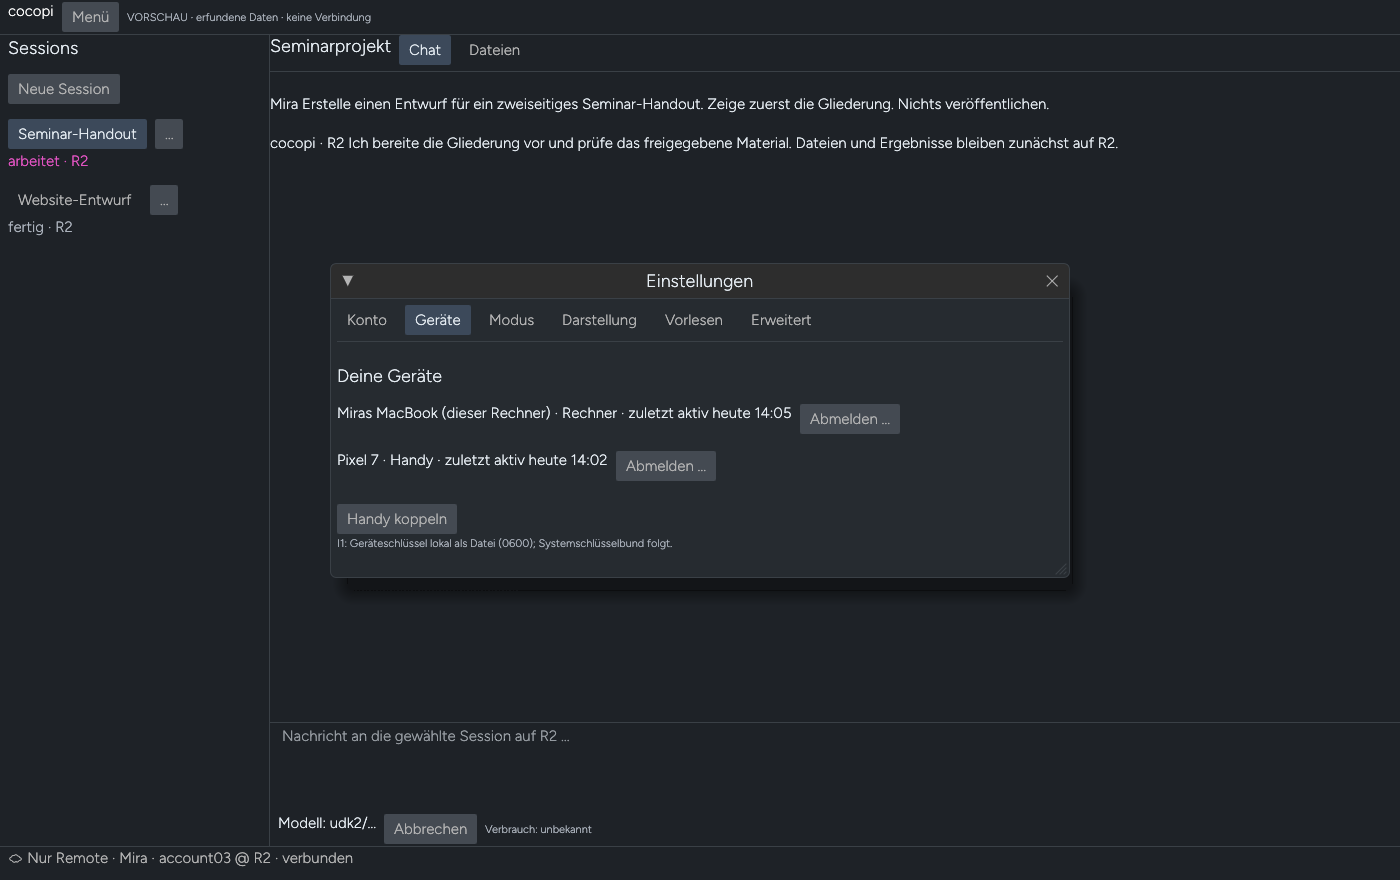
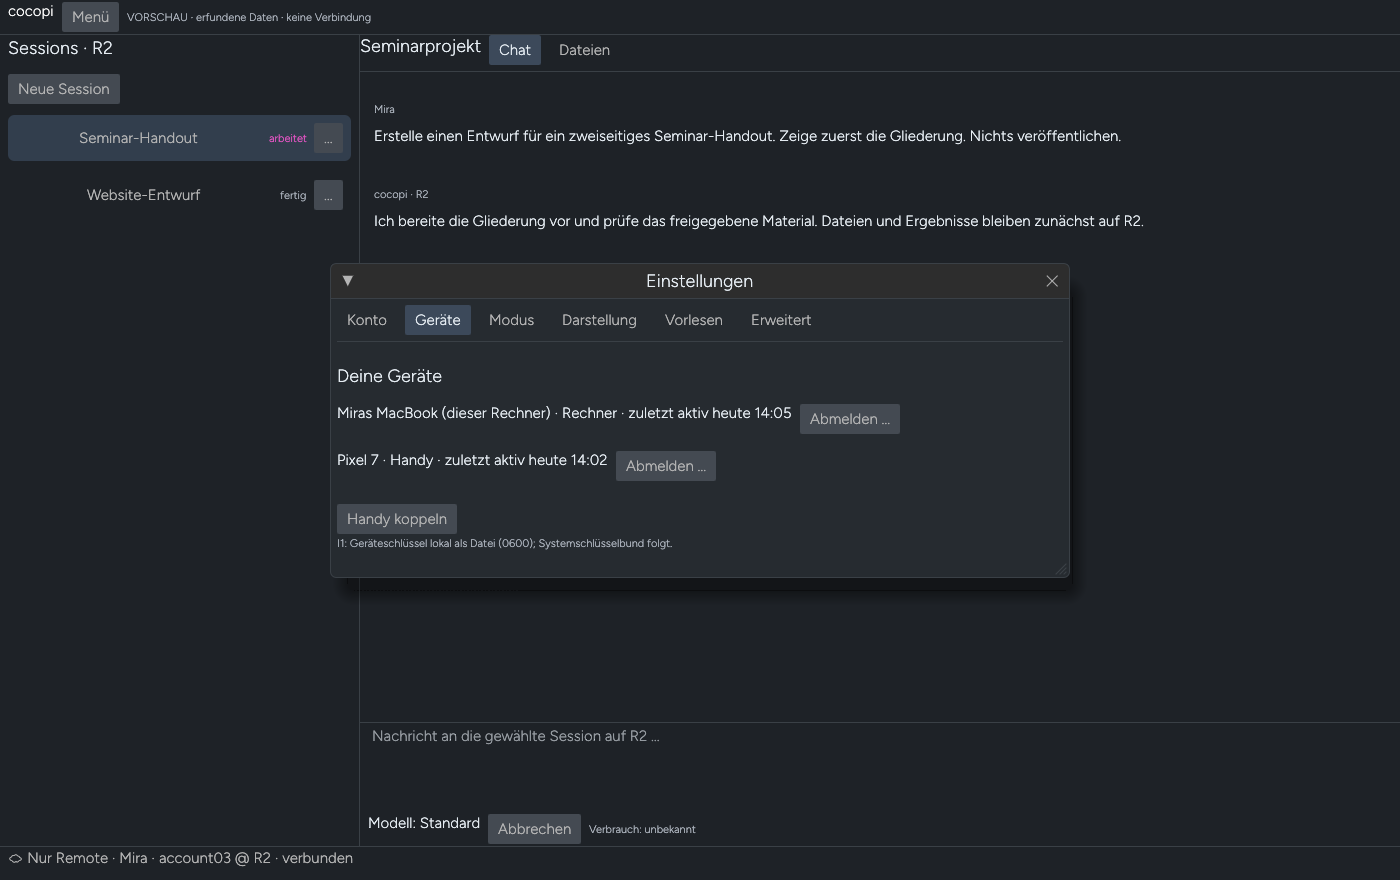
cocopi v3: I1-Fix-Berichte und neue Screenshots

diff --git a/coord/runs/I1-S3-fix-bericht.md b/coord/runs/I1-S3-fix-bericht.md
@@ -1,0 +1,79 @@
+# I1-S3-fix · Sicherheitsnachbesserungen
+
+Stand: 28.10.2026, Abschluss ca. 20:25 CET. Beginn laut Laufstatus 20:04:53 CET; deutlich innerhalb 100 Minuten.
+
+## Ergebnis und Übergabestände
+
+Pflichtpunkte H1–H3, Fehlercode-Erhalt/N5, M3, M5 und N2/N3 umgesetzt; zusätzlich M1 und die angeforderten M4-Härtungen. **Keine Pilot-/Deploymentfreigabe:** offene Reviewpunkte und Plattform-/Livegrenzen bleiben unten ausdrücklich stehen.
+
+| Repository / eigener Worktree | Branch | Ausgang | Ergebnis |
+|---|---|---|---|
+| `/home/medienhaus/Work/pi-lite-wt/s3` | `v3/s3` | `64e7154` | **`0f2716a`** |
+| `/home/medienhaus/Work/pi-hub-wt/s3` | `v3/s3` | `365cadc` | **`e2eabfa`** |
+
+Beide Worktrees nach den Commits sauber. Keine fremden Änderungen übernommen; keine Abhängigkeiten, Installationen, Netzwerk-/Systemkonfiguration oder produktiven Hubprozesse verändert. Kein Push, Merge, Reset oder Stash. Cargo ausschließlich offline/locked. Hub-Commits mit vorgegebener Identität. Keine Live-Modellprompts.
+
+## Finding → Commit → Nachweis
+
+| Finding | Umsetzung / Commit | Test / Ergebnis |
+|---|---|---|
+| **H1** Bestätigung per `geraeteart` umgehbar | Hub `84728e4`: jede e-Einlösung bei mindestens einem nicht widerrufenen Gerät bleibt zunächst pending, unabhängig von beantragter Geräteart. Mit Handy b-Bestätigung, andernfalls Zustimmung des vorhandenen Desktops. | `invite_as_phone_with_existing_phone_needs_confirmation`, `invite_with_existing_desktop_needs_approval`: kein neues Gerät vor Bestätigung; Hub-v1 grün. |
+| **H2** b-Code in SSE/Replay | Hub `84728e4`: SSE erhält nur explizit ausgewählte Anfrage-ID/Name. `bestaetigung` einschließlich Code/URL verbleibt ausschließlich in der Einlöse-HTTP-Antwort. | `confirm_code_never_in_sse_or_replay`: Live-Stream und Replay ohne Code/URL/Bestätigungsobjekt. |
+| **H3** verspätete Instanzereignisse / freie Kapazität vor Exit | Hub `84728e4`: Ereignisse nur bei `s.inst === inst`; `ruht`/`fehler` mit lebender Instanz zählt weiter offen; Wiederöffnen und Senden während Stopp gesperrt. Erst Exit entfernt Instanz. | `late_exit_after_rest_cannot_free_slot`, vorhandene Parallel-/Kapazitätstests: verzögerter Exit, Wiederöffnen, alte Ereignisse, dritte Session. |
+| **Fehlercodes + N5** | pi-lite `0e77243`, `0f2716a`: API bleibt `Result<Value, String>`; Protokollfehler beginnen mit `[code] `. Bekannte Codes ausschließlich mit lokalen Texten; unbekannte gültige Codes mit dokumentiertem Servertext-Fallback. | `error_codes_use_local_text_and_unknown_fallback`; echter lokaler HTTP-Rundlauf prüft `[verbraucht]` und `[nicht_angemeldet]`. |
+| **M3** kontextlose Signatur | Hub `091ce47`; pi-lite `0e77243`: exakter LF-Text `cocopi-v1-anmelden\n<hub_origin>\n<slot>\n<geraet_id>\n<challenge_id>\n<nonce>`, kein Schluss-LF. Ursprung aus bewusster Client-Konfiguration / `HUB_URL`, nicht aus Challenge. Challenge enthält Slot; Client vergleicht mit `hallo`. Schema, Protokoll, Beispiele aktualisiert. | `signature_for_hub_a_rejected_by_hub_b`, Rust `login_signature_context_and_canonical_origin`, `signature_matches_protocol_example`; deterministischer Ed25519-Vektor in Node und Rust identisch. |
+| **M5** hängender Start | Hub `091ce47`: `HUB_START_TIMEOUT_MS`, Standard 60000; positive Ganzzahl. Timer bis erfolgreichem `get_state`, danach `fehler` und `stop(true)`/SIGKILL. Erzwungenes Ruhen erlaubt. | `start_timeout_and_forced_rest_release_slot`: nicht antwortender Fake wird beendet; Kapazität erst nach Exit frei; zusätzlich erzwungenes Ruhen geprüft. |
+| **N2** SSE ohne Lesebudget | pi-lite `0e77243`: SSE `timeout_recv_body(45 s)`. | `http_agents_disable_proxy_and_bound_sse_reads` prüft Agent-Konfiguration; keine reale 45-s-Halboffen-Verbindung getestet. ureq-Gesamtbudget, nicht gleitender Idle-Timer, siehe Grenzen. |
+| **N3** Umgebungsproxy | pi-lite `0e77243`: `.proxy(None)` auf beiden Agenten. | Derselbe Konfigurationstest prüft Proxy `None` für normale Requests und SSE. Kein echter Proxyserver betrieben. |
+| **M1** lesendes `hallo`, veraltete Sperre | Hub `e2eabfa`: `inspect` statt Schreibtransaktion auf Lesepfaden. Exklusive Sperre enthält PID/Zeitstempel, drei kurze Wiederholungen bei belegter Sperre; tote PID → `register_veraltet`, laufende/beschädigte Sperre → `register_belegt`. Keine automatische Löschung fremder Sperre. | `hallo_does_not_write_registry` prüft Nichterstellung sowie stabile Inode/mtime; `stale_lock_recovered_or_clear_error` prüft tote und lebende PID sowie Lesen trotz Sperre. |
+| **M4** State-Dateien | Hub `e2eabfa`: privater Eigentümer/Modus, `lstat`, Symlinkablehnung, `O_NOFOLLOW` beim Lesen und Prüfung des offenen Deskriptors. Geräte-/Sessionregister mit exklusivem Zufalls-Tempnamen, Sync/Rename/Verzeichnis-Sync. Sessionpfade beim Wiederöffnen unter `PI_SESSIONS_DIR`; Alt-Registry wird im Slotbetrieb nicht zusätzlich persistiert. | `state_dir_world_writable_refused`, `registry_symlink_refused`, `state_dir_symlink_and_public_registry_refused`, `session_registry_symlink_and_outside_path_refused`. Fremde UID nicht praktisch erzeugt; Prüfung im Code vorhanden. |
+
+## Ausgeführte Prüfungen
+
+- `cargo test --offline --locked --manifest-path copi/Cargo.toml -p pi-backend -- --nocapture`: **96 Unit-Tests bestanden**, `tests/hub.rs` **1 bestanden**, `tests/ssh.rs` **3 als bestanden gemeldet, 2 Live-Tests ignoriert**, Doc-Tests 0. **Einschränkung:** einer der drei SSH-Tests meldet selbst `node/socat fehlt – übersprungen`; kein echter SSH-Tunnel-Nachweis. Der v1-Node-Hub-Clienttest lief wirklich und wurde nicht übersprungen.
+- Für den abschließenden Cargo-Lauf beide Verweise explizit auf den eigenen Hub gesetzt: `COCOPI_TEST_HUB_DIR=/home/medienhaus/Work/pi-hub-wt/s3` **und** `PI_HUB_DIR=/home/medienhaus/Work/pi-hub-wt/s3` (Alt-Integration verwendet letzteren). Target `/home/medienhaus/Work/pi-lite-wt/target-s3`, Jobs 3.
+- `cargo clippy --offline --locked --manifest-path copi/Cargo.toml -p pi-backend -- -D warnings`: **EXIT 0**.
+- Hub `node test/v1.mjs`: **43 Prüfungen bestanden**.
+- Hub `node test/smoke.mjs`: **alle Tests bestanden** (Mock/Fake, keine Modelle).
+- `node --check` für `server.mjs`, beide v1-Module und `test/v1.mjs`: erfolgreich.
+- Python `jsonschema.Draft202012Validator`: Schema gültig und **23 JSON-Beispiele gültig**; keine Pakete installiert.
+- `git diff --check` beider Worktrees: erfolgreich. Nur `hub_v1.rs` gezielt formatiert, keine Workspace-Formatierungsänderung.
+
+Logs (flüchtig): `/tmp/I1-S3-fix-cargo-final.log`, `/tmp/I1-S3-fix-clippy-final.log`, `/tmp/I1-S3-fix-hub.log`, `/tmp/I1-S3-fix-smoke.log`, `/tmp/I1-S3-fix-schema.log`. Der im Cargo-Log sichtbare simulierte Panic gehört zum erfolgreichen Catch-/Restoration-Test, nicht zu einem fehlgeschlagenen Test.
+
+## Schnittstelle / Anfragen an andere Rollen
+
+### S2 Desktop
+
+1. Fehleradapter kann die vereinbarten Präfixe weiterhin unverändert auswerten: `[abgelaufen]`, `[verbraucht]`, `[unbekannt]`, `[zu_viele]`, `[zu_viele_offen]`, `[nicht_angemeldet]` usw. Kein öffentlicher Rückgabetyp geändert. Neu: `register_belegt`, `register_veraltet` (503); lokal erklären, keine automatische gewaltsame Entsperrung.
+2. Login macht vor Challenge einen zusätzlichen `hallo`-Request und verlangt den Slot in der Challenge. Gegen alte Server ohne Kontextsignatur ist dieser Stand absichtlich nicht kompatibel; Hub und Client gemeinsam integrieren.
+3. SSE läuft bei ureq nach insgesamt 45 s aus, auch mit Pulsen. Nach Timeout mit letzter Ereignis-ID neu verbinden, Replay deduplizieren; bei `neu_abgleichen` Snapshot ersetzen. **Keine Prompts automatisch wiederholen.** Reconnect/Fehleranzeige in der tatsächlichen Desktop-Worker-Schleife abnehmen.
+4. Vorhandene Desktopzustimmung auch für weitere e-Einladungen ohne Handy anbieten. Bei vorhandenem Handy b-Code ausschließlich aus der konkreten HTTP-Antwort des einlösenden Desktops anzeigen, niemals aus SSE ableiten.
+5. Review N4 (lokaler Fallback-Eintrag) und `mode::init()` vor Backendaufbau bleiben S2-Auftrag; nicht in S3-Dateien geändert. Lokale Speichernamen möglichst aus (Ursprung, Slot) ableiten; diese API bleibt zunächst kompatibel.
+
+### S5 / Mobil / Protokollabnahme
+
+Exakte neue Signaturbytes übernehmen, Challenge-Slot validieren; deterministischen Vektor unter `shared/protocol/v1/examples/anmelden_{challenge,req}.json` nutzen. Keine Nonce-only-Signaturen mehr. Das Handy muss b-Code bewusst über den Einlöseweg erhalten (QR/Benutzereingabe), nicht aus SSE. Native und mobile Clients gegen denselben neuen Hubstand testen.
+
+### K / Betrieb / erneuter Review
+
+- Commits nur gezielt integrieren; kein Merge durch S3 erfolgt. Pflichtpunkte mit unabhängigem Reviewer erneut prüfen.
+- Bei äußerem TLS/Reverseproxy **`HUB_URL` explizit auf den äußeren Ursprung setzen**; Default passt nur zum tatsächlichen lokalen Listener. Kein Vertrauen in unkonfigurierte Forwarded-Header ergänzt.
+- Vorhandene State-Verzeichnisse/-Dateien müssen dem Dienstkonto gehören und privat sein; Fix chmodt fremde/öffentliche Bestände nicht still passend. Alte leere Crash-Locks liefern klaren Sperrfehler. Veraltete Sperren nur nach Kontrolle und gestoppten Schreibern manuell entfernen; PID-Wiederverwendung kann einen alten Lock wie einen belegten aussehen lassen.
+
+## Nachgewiesene und offene Grenzen
+
+**Nachgewiesen:** lokale Linux-Tests mit Node-Mock/Fake einschließlich realem HTTP/SSE, tatsächlichem Fake-Kindprozess, verzögerten Exit-Ereignissen, Code-Geheimhaltung in Live-/Replay-Streams, Schema/Signaturvektor und Server-A/B-Abweisung. Keine Aussage über produktive Inbetriebnahme.
+
+**Weiter offen / nicht überbehaupten:**
+
+- Kein echtes Modell, kein produktiver Hubneustart, kein WAN/Tailscale-/TLS-/Reverseproxy-/Handytest, keine Mac-/Windows-Builds oder Keychain/Windows-ACL-Abnahme.
+- 45-s-SSE ist ein **Gesamtbodybudget** von ureq 3.4.2, kein durch Pulse verlängerter Idle-Timeout. Konfiguration und kurzer SSE-Rundlauf geprüft, tatsächlicher 45-s-Ablauf und UI-Reconnect hier nicht live getestet.
+- M4 prüft State-Endverzeichnis und Registerdateien; keine vollständige `openat`-/dirfd-basierte Absicherung sämtlicher Vorfahren und kein Schutz gegen einen bereits kompromittierten gleichen Unixbenutzer oder einen austauschbaren übergeordneten Pfad. Produktive State-Wurzel weiterhin unter vertrauenswürdigem privaten Home halten. Gezielter Fremd-UID-Test nicht ausgeführt.
+- Starttimeout/erzwungenes Ruhen sendet SIGKILL an den verwalteten Prozess, **keine bewiesene Prozessbaum-/cgroup-Terminierung**. Tatsächlicher asynchroner Exit einer produktiven pi-Instanz, geerbte Tool-Kinder und Crash-Waisen bleiben separat abzunehmen.
+- M1 bietet sichere Fehlermeldung statt automatischer Stale-Lock-Reparatur. Unlesbare/alte leere Sperren können blockieren, aber nicht mehr anonym als generischer interner Fehler.
+- Nicht Teil dieses Fixstands: M2 Proxy-/Absenderdrosselung, N1 SSE-/Tokenlimits je Gerät, N4/N6 Desktop/Mode-Themen, N7 CLI-Widerruf und Registerbereinigung sowie verwaiste Prozesse. Unbekannte Fehlercodes dürfen gemäß Auftrag noch Servertext zeigen; nur bekannte Codes sind lokalisiert.
+- Kontextsignatur schützt bei Schlüsselwiederverwendung die Hub-Ursprungsbindung; automatische getrennte Schlüsselablage je Hub/Slot und persistente UI-Slotbindung sind noch nicht eingeführt. Slot wird im aktuellen Client aus `hallo` genommen und gegen Challenge geprüft.
+- Persistenz bleibt Metadaten/Sessionpfad, kein RAM-Resume; SSE-Ring begrenzt und flüchtig, keine lückenlose Historien- oder Exactly-once-Garantie.
+
+Finale Übergabe: **FIX fertig 0f2716a e2eabfa**.

diff --git a/coord/runs/I1-S2-fix-bericht.md b/coord/runs/I1-S2-fix-bericht.md
@@ -1,0 +1,91 @@
+# I1-S2-fix · Desktop-Nachbesserung
+
+Stand: 28.10.2026, **abgeschlossen, HEAD `ed78a2b`** (ca. 20:29 CET,
+Beginn 20:04:53; innerhalb 90 Minuten).
+Worktree `/home/medienhaus/Work/pi-lite-wt/s2`, Branch `v3/s2`, sauber.
+Ausgang `9c8857c`, eigener Checkpoint `dbc6267`, autorisierter S3-Merge
+`9234ee8` (übernimmt `0f2716a`), HTTP-/Dialognachweis `ed78a2b`.
+
+## Erledigt
+
+- `main.rs`: gespeicherten Modus vor App-/Backend-Konstruktion initialisieren,
+  einschließlich `--sync-states`; Demo/Screenshots lesen keinen echten Modus.
+  Reihenfolgetest mit injiziertem Initialisierer ohne Konfigurationszugriff.
+- `net.rs`: fehlerhaftes `backends.json` fällt durch `backends::parse("[]")`
+  zurück; kein ungefilterter lokaler Eintrag. Regressionstest mit beschädigtem
+  JSON im Temp-Verzeichnis und Vergleich mit zentralem Parser.
+- `desktop.rs`: unabhängige Dialogaktionen in lesbaren Blöcken; ungenutzte
+  Varianten/Felder entfernt. Pairing-Abbrechen per simuliertem Klick sowohl bei
+  gültigem als auch bei abgelaufenem Code getestet. Einstellungen werden vor dem
+  Pairing-QR geschlossen.
+- Sprecher als eigene Daten und dezente Zeile; 14 px Innenabstand und Abstand
+  zum Markdowntext. Sessiontitel/Zustand/Ellipsis auf einer Zeile, neutrale
+  durchgehende Auswahl. Statt `udk2/…`: „Modell: Standard“.
+- Ausschließlich dateibezogenes rustfmt für `desktop.rs` und `desktop/hub.rs`.
+- Acht Szenen in `coord/shots/I1/` erneuert (1400×880), tatsächlich angesehen:
+  `v3-start`, `v3-start-fehler`, `v3-main-remote`, `v3-modus`,
+  `v3-hybrid-dialog`, `v3-geraete`, `v3-koppeln-qr`, `v3-grenze`.
+  Zusätzlich Kontaktbogen `v3-fix-kontaktbogen.png`.
+
+## Finale Tests / Nachweise nach S3-Merge
+
+Mit `--offline --locked`, `CARGO_BUILD_JOBS=3` und
+`CARGO_TARGET_DIR=/home/medienhaus/Work/pi-lite-wt/target-s2`:
+
+| Prüfung | Ergebnis | Log |
+|---|---|---|
+| cocopi-Binarytests vollständig, einschließlich echter HTTP-/Node-Adaptertests | **125 ok, 2 ignoriert, 0 gefiltert** | `/tmp/I1-S2-fix-cocopi-final.log` |
+| copi-Binarytests | **102 ok, 2 ignoriert** | `/tmp/I1-S2-fix-copi-final.log` |
+| Debug-Build cocopi und acht Screenshots nach Merge | ok | `/tmp/I1-S2-fix-build-final.log` |
+| Clippy cocopi einschließlich Tests | Exit 0, vorhandene Warnungen | `/tmp/I1-S2-fix-clippy-final.jsonl` |
+| Clippy-Baseline `eb534bb`, aus `git archive` in Temp-Verzeichnis | **keine neuen S2-Warnungsarten** | `/tmp/I1-S2-fix-baseline-clippy-tests.jsonl` |
+| dateibezogenes `rustfmt --edition 2021 --check` und `git diff --check` | ok | abschließender Toollauf |
+
+Clippy-Differenz über Datei/Code/Meldung verglichen: `desktop.rs`,
+`desktop/hub.rs`, `main.rs` ohne Warnungen; die Warnung `if_same_then_else` in
+`net.rs` ist bereits in `eb534bb` vorhanden. Beim Test-Clippy ist auch
+`items_after_test_module` in `main.rs` schon in der Baseline vorhanden (neue
+Funktionen ergänzen nur ihre sekundären Spans). Vergleich dedupliziert nach
+Datei/Code/Meldung: keine neue Warnungsart. Alte Warnungen wurden nicht als durch
+diesen Auftrag behoben ausgegeben.
+
+## S3-Integration / echte HTTP-Regression
+
+Nach überprüftem Heartbeat **„FIX fertig 0f2716a e2eabfa“** wurde ausschließlich
+der erlaubte Merge `git merge --no-edit v3/s3` ausgeführt. Die API blieb
+`Result<…, String>` statt eines neuen öffentlichen Fehlertyps; `[code]`-Präfixe
+sind nun der maschinenlesbare Vertrag. Der bestehende Adapter versteht sie.
+
+- Der neue echte Loopback-HTTP-A3-Test reproduzierte **vor** dem Merge den Fehler
+  (Server-Werbetext statt lokalem Text). **Nach** dem Merge prüft er erfolgreich
+  `abgelaufen`, `verbraucht`, `unbekannt`, `zu_viele` und exakte A3-Texte, obwohl
+  die HTTP-Antwort absichtlich unpassende `was`/`tun`-Texte enthält.
+- Der Node-Adaptertest läuft gegen Hub `e2eabfa` mit temporärem privatem State,
+  Mock-Harness und Temp-Schlüssel. Er öffnet zwei Sessions; der dritte echte
+  HTTP-Versuch liefert `Reply::Limit`. Der Test wendet die Antwort auf den Desktop
+  an und prüft die tatsächlich gerenderte Überschrift „Zwei Sessions sind offen“.
+  Außerdem Einlösen/Login mit Kontextsignatur, Geräte, Ruhen, Paircode, Widerruf.
+- `COCOPI_TEST_HUB_DIR` für den isolierten Adaptertest ergänzt. Keine eigene
+  Produktions-HTTP-/Kryptologik implementiert; nur die Tests besitzen HTTP-Fixtures.
+
+Die anfangs ausgesparte Integration und die zwischenzeitlichen roten neuen
+Regressionstests sind im finalen vollständigen grünen Lauf enthalten, nicht
+weggefiltert. Screenshots nach dem finalen Merge/Build erneut erzeugt; Hauptchat
+nochmals angesehen, übrige Szenen vor Merge vollständig visuell geprüft.
+
+## Unveränderte Grenzen
+
+Keine Release-/Installations-, Netzwerk-/System- oder Kontenänderung. Kein echtes
+Modell, keine reale Konfiguration und kein R2-Zugriff. Nur isolierte Loopback-Mocks
+und temporäre Geräteschlüssel. Headless-Szenen sind keine macOS-/Windows- oder
+Handy-/Kameraabnahme. Lokaler Hybrid, Modellpicker, Dateitransfer, Vorlesen und
+vollständige Rückfragen bleiben die schon dokumentierten I1-Lücken.
+
+**Neue wichtige S3-Grenze:** der SSE-Reader hat ein 45-s-Gesamtbodybudget, keinen
+gleitenden Idle-Timer. Der Desktop meldet das Ende als Unterbrechung und sendet
+niemals automatisch erneut. Automatischer Reconnect mit Last-Event-ID und
+Deduplizierung ist noch nicht implementiert und vor Pilotbetrieb separat nötig.
+Schlüsselspeichernamen noch nicht je Ursprung/Slot getrennt; Kontextsignatur
+verhindert nun die originübergreifende Signaturweiterleitung. Der tatsächliche
+45-s-Ablauf, WAN, Mac/Windows und Hardware bleiben ungeprüft. Diese Grenzen sind
+auch in `copi/app/DESKTOP_V3.md` dokumentiert. Keine vollständige Pilotfreigabe.

diff --git a/coord/runs/I1-S6-fix-bericht.md b/coord/runs/I1-S6-fix-bericht.md
@@ -1,0 +1,40 @@
+# I1-S6-fix · Abschlussbericht
+
+Stand: 28.10.2026 · Worktree `/home/medienhaus/Work/pi-lite-wt/s6`, Branch `v3/s6`, sauber. Kein Push/Merge, keine fremden Produktdateien geändert.
+
+## Commits / Dateien
+
+- `1487575` — baselinebezogene Format-/JS-Prüfung: `test/v3-gate.sh`, neu `test/gate-checks.py`, neu `test/js-baseline.txt`, `test/self-test.py`.
+- `3ae1576` — sichtbares `KNOWN` und Formatzahlen, zusätzliche Selbsttestfälle; neu `test/BASELINE.md`, neu `coord/BUGS.md` (B1–B5).
+- Vorhandener Checkpoint `a66f63a` bleibt erhalten; `test/no-local-spawn.sh`, `test/gate-metrics.py` und `test/clippy-baseline.json` unverändert.
+
+## Ergebnis und Nachweis
+
+- `python3 test/self-test.py`: **10 Tests grün**, Exit 0; `/tmp/I1-S6-fix-self-test.log`.
+  - Format: echte Temp-Gitrepos, Merge-Base bei vorausliegender Basisreferenz, committierte und uncommittierte Änderungen, neue Datei mit Leerzeichen, gelöschte/unveränderte Datei, leere Auswahl, ungültiges `V3_GATE_BASE`.
+  - JS: bekannt rot → KNOWN/Exit 0; neuer Fehler daneben → FAIL/Exit 1; bekannt jetzt grün → „aus Baseline streichen“; ungültige Baseline abgewiesen.
+  - Optionale Mobil-/R2-Prüfungen mit Stubs: vorhanden/grün und fehlgeschlagen; fehlend → SKIP. Bestehende Lock-/Isolations-/Spawnhelfer-Tests weiterhin grün.
+- `bash -n test/v3-gate.sh test/no-local-spawn.sh` und `git diff --check`: Exit 0.
+- **Echtes Gate auf eigenem Worktree**, nach letztem Commit:
+  `PATH=$HOME/.cargo/bin:$HOME/.local/share/mise/shims:$PATH CARGO_TARGET_DIR=/home/medienhaus/Work/pi-lite-wt/target-s6 CARGO_BUILD_JOBS=3 bash test/v3-gate.sh "$PWD"`
+  → **Exit 0**, `/tmp/I1-S6-fix-gate-final.log`, detaillierte Logs `/tmp/v3-gate.s6.yhe04r9h/`.
+  - fmt PASS: 61 Rust-Dateien insgesamt, **0 ausgewählt**; Merge-Base `a66f63a`. Kein Rust-Produktcode dieses Auftrags geändert.
+  - Clippy PASS: **24 unique / 41 roh**, entspricht Baseline; nicht warnungsfrei.
+  - Rust-Tests PASS: **378 bestanden / 0 Fehler / 6 ignoriert**.
+  - copi-check PASS; JS-Syntax PASS (15 Dateien).
+  - JS-Tests **KNOWN**, 22 Skripte, nur `scripts/test-statusline-net.cjs` rot; keine neuen Fehler.
+  - Mobil, R2 und Hub **SKIP**, auf diesem Worktree nicht vorhanden bzw. kein Hub-Worktree angegeben.
+- Basiswerte auf `eb534bb` in `test/BASELINE.md`: ursprüngliche Basislogs mit HEAD-Beleg ausgewertet; Rust-Produktdateien des Worktrees unverändert gegen Basis. Ergänzende frische Einzeldateimessung aus `git show eb534bb:<pfad>` in Temp: **57/61** Rust-Dateien nicht formatkonform (`/tmp/I1-S6-fix-fmt-baseline.json`). Der alte `cargo fmt --check` aus `copi/` meldete **48** unterschiedliche Dateien; anderer Umfang, kein Widerspruch.
+
+## Grenzen / offene Fragen
+
+- Kein Sicherheits-, Remote-only-Prozess-, UI-, Plattform-, Persona- oder Pilotnachweis; keine Screenshots in diesem Auftrag. Gate-Grün bedeutet hier keine S2/S3-Produktabnahme.
+- Optionaler echter Mock-Hub nicht erneut gestartet; Rust-Hubtest kann ohne separaten Mock früh zurückkehren. Keine echten Modellaufrufe oder Nutzerkonfigurationen verwendet.
+- Die JS-Baseline ist wie beauftragt pfadbasiert: andere Fehler innerhalb desselben bekannten Skripts lassen sich so nicht unterscheiden. Testlog bleibt sichtbar; keine automatische Baseline-Erweiterung.
+- B3–B5 sind ausschließlich Sammelverweise auf „Vor Pilot beheben“ des S3-Reviews. Andere Merge-/Vor-I2-Auflagen bleiben gültig; Fixstände anderer Rollen hier nicht unabhängig abgenommen.
+
+## Änderungsbitten
+
+- **K:** Commits übernehmen; `coord/BUGS.md` aus diesem Worktree integrieren. Anschließend Gate auf den Integrationskandidaten wiederholen, optional separaten Hub-Worktree angeben. Mobil/R2 werden dort automatisch ausgeführt, sofern vorhanden.
+- **K/Test-/UI-Besitzer:** B1 (`NET_PLACEHOLDER`-Strukturtest) passend zum aktuellen Produkt korrigieren, dann aus `test/js-baseline.txt` entfernen. B2 nach Dateibesitz aufteilen; keine pauschale Neuformatierung durch S6 erfolgt.
+- **S3/S4:** B3–B5 mit separaten Nachweisen vor Pilot bearbeiten; Details ausschließlich im referenzierten Sicherheitsreview.
